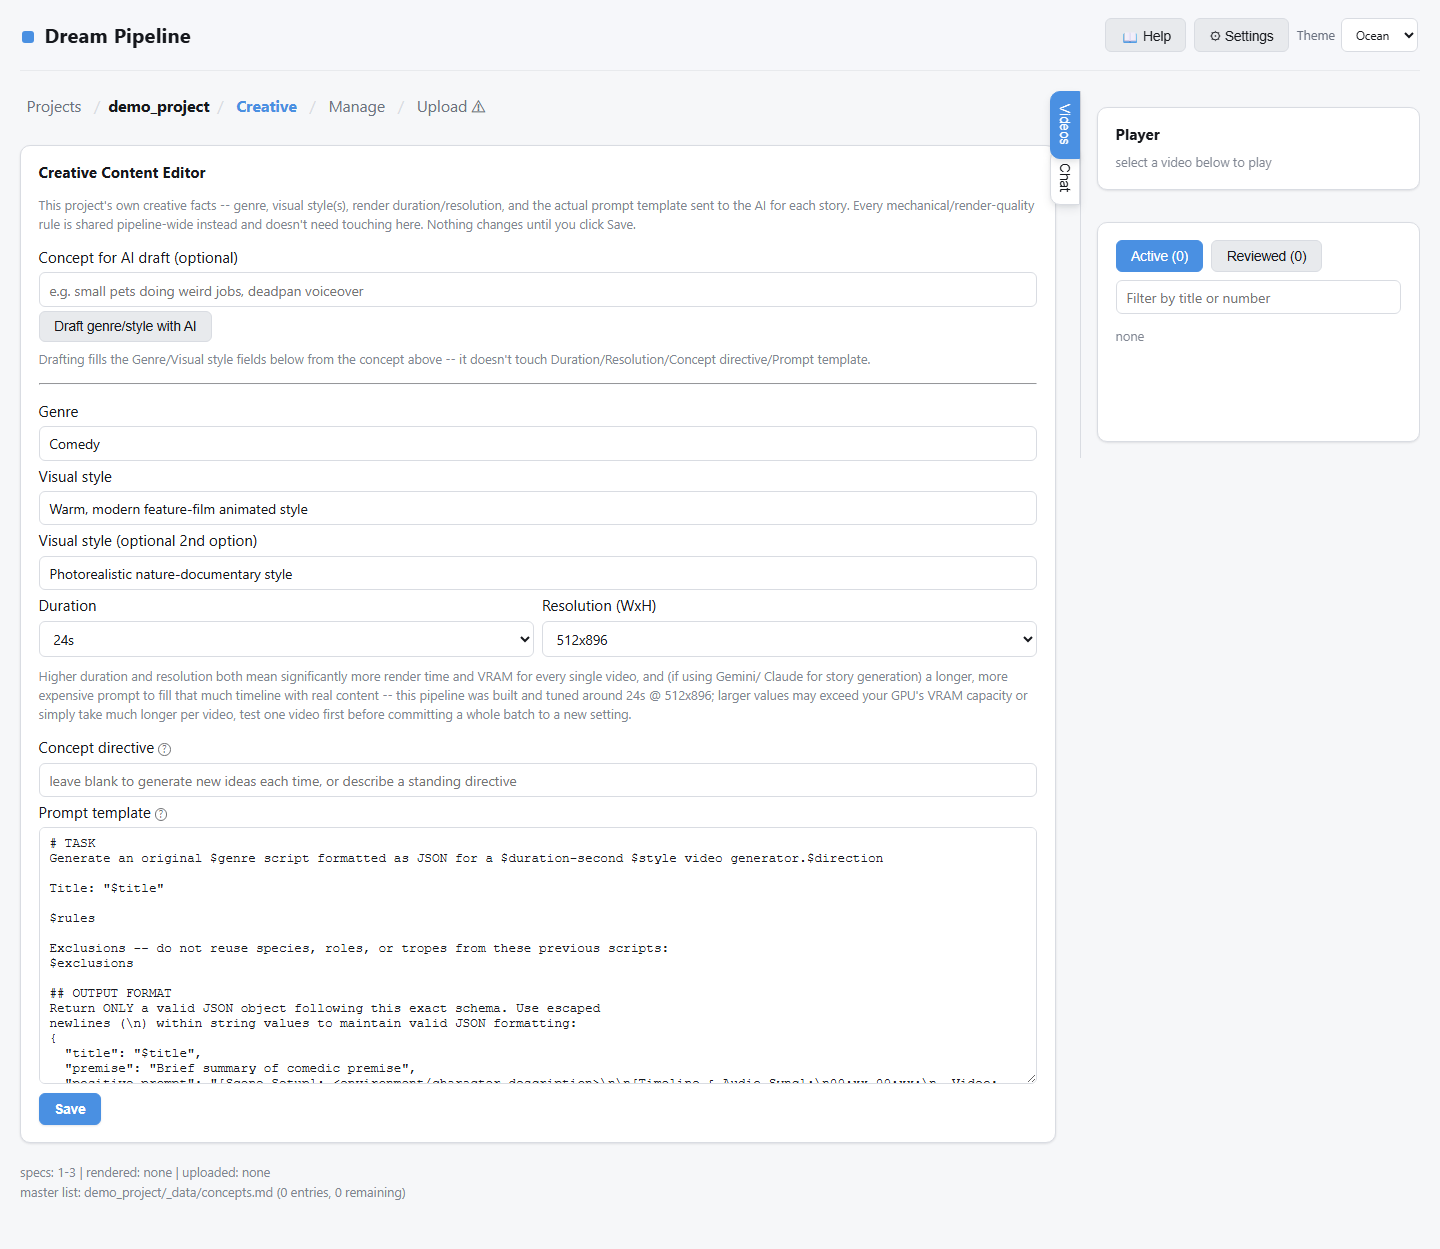
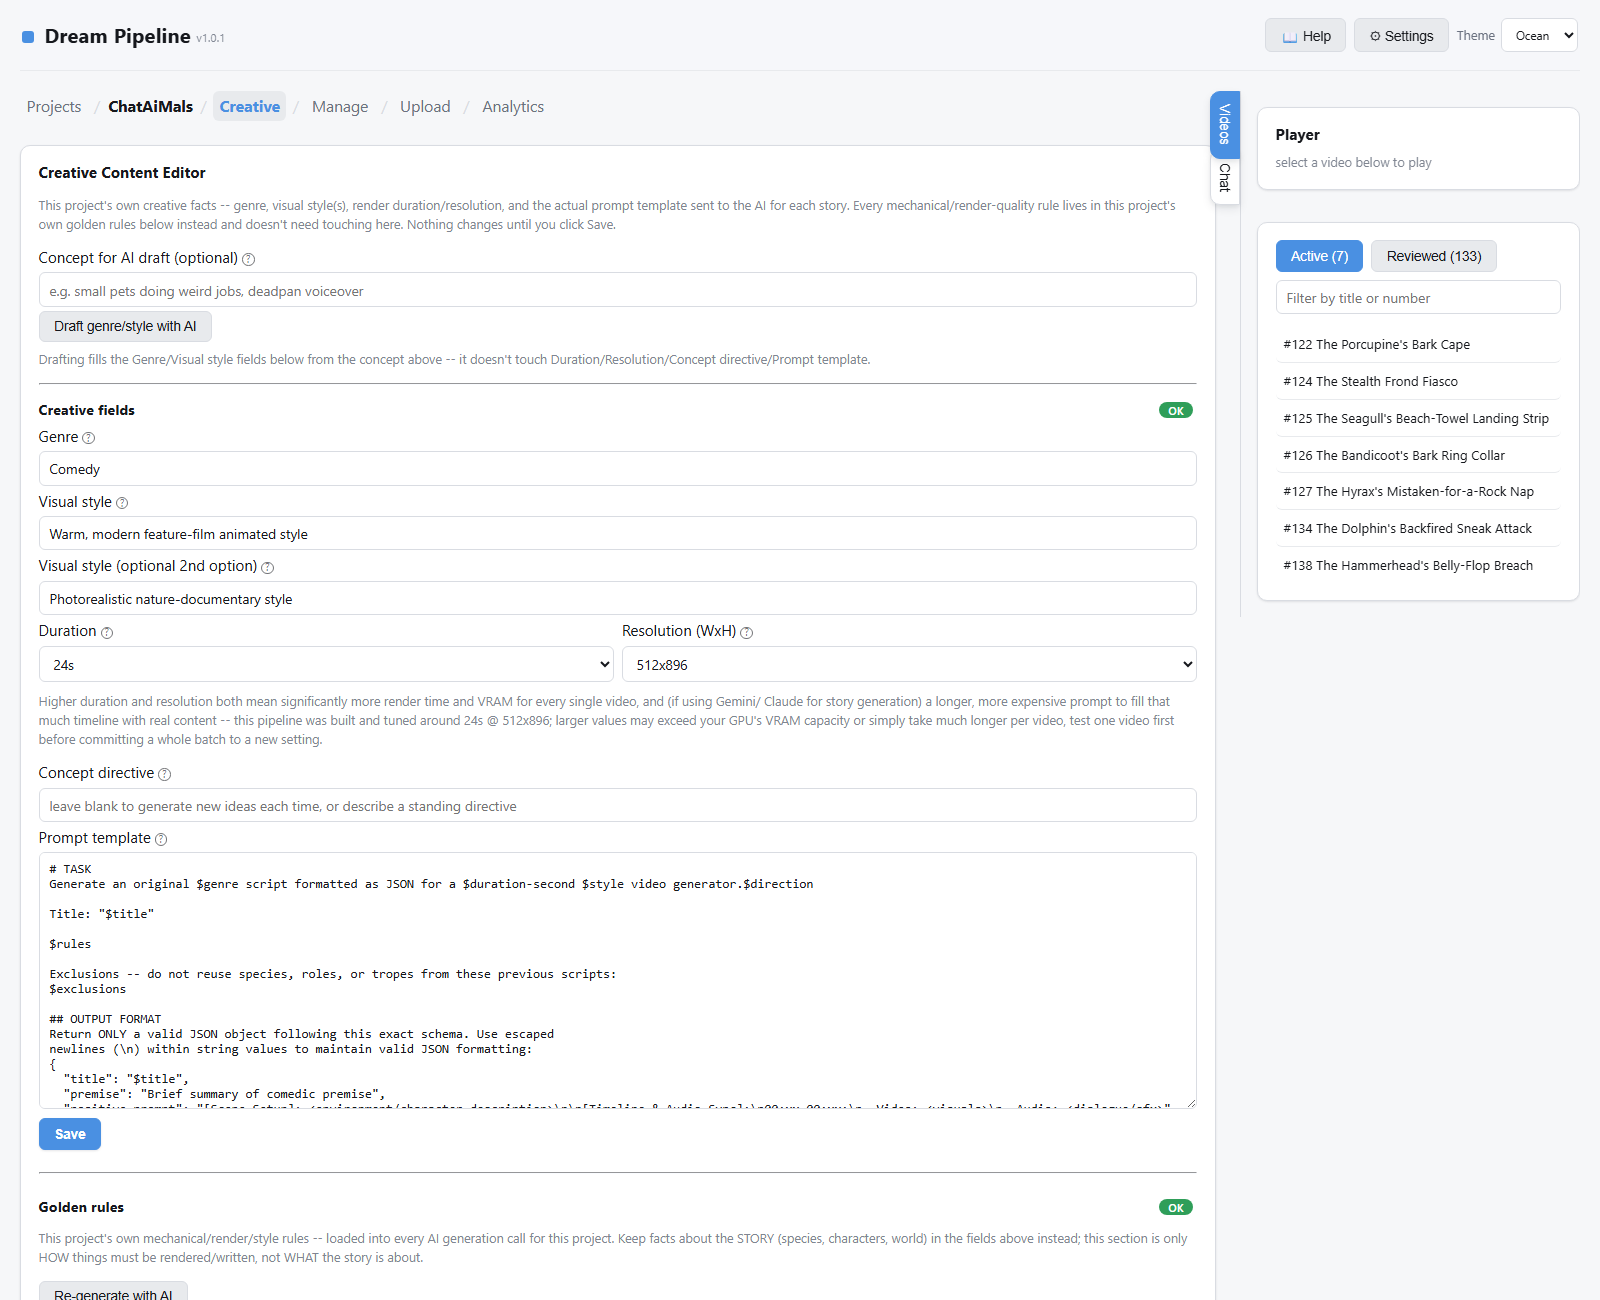
Fix remaining stale pipeline-wide golden_rules.md references, refresh screenshots
Three more leftover mentions of the old shared/pipeline-wide golden
rules concept (golden rules moved to per-project files earlier this
session): the Creative tab's own onboarding/editor copy in web_ui.py,
and two comments/prompt text in dream_step.py (draft_genre_style's
AI instructions, and a stale comment on the CREATIVE.md content-move
rationale). Also refreshes docs/screenshots/manage-table.png and
creative-editor.png against the live UI -- both predated this
session's Manage-table consolidation (single primary button + Clear
content + per-row Revert) and the Creative tab text fix above.

diff --git a/_pipeline/dream_step.py b/_pipeline/dream_step.py
@@ -3419,8 +3419,8 @@ def _validate_and_normalize_spec(number, spec, allow_custom_beats=False, positiv
         #
         # Gated on the rule actually being PRESENT in this project's own
         # active rules, not hardcoded as a universal requirement --
-        # checks golden_rules.md (where this rule happens to live today,
-        # shared pipeline-wide) AND this project's own CREATIVE.md (in
+        # checks this project's own golden_rules.md (where this rule
+        # happens to live today) AND its own CREATIVE.md (in
         # case a project's own style notes state it, or a future project
         # explicitly opts out by not mentioning it), so a project that
         # genuinely doesn't use this convention isn't force-validated
@@ -5295,10 +5295,11 @@ REQUIRED_NEW_PROJECT_FIELDS = [
 # 2026-08-12: CREATIVE.md was cut down to project-FACTS only (genre,
 # visual style) -- every rule/process/worked-example section that used to
 # live here (content modes, complexity budget, voice/role pool, dedup
-# approach, worked examples, etc.) moved to the shared, pipeline-wide
-# golden_rules.md instead (see that file's own header for why: several of
-# those "channel-specific" rules turned out to be general render-quality
-# fixes, not actually per-project). A fresh project's CREATIVE.md now only
+# approach, worked examples, etc.) moved to golden_rules.md instead
+# (see that file's own header for why: several of those "channel-specific"
+# rules turned out to be general render-quality fixes, not actually
+# per-project -- golden_rules.md itself later became per-project too, see
+# _project_golden_rules_path()). A fresh project's CREATIVE.md now only
 # needs these two facts -- project_genre_and_styles() parses them back out
 # by the exact marker lines shown here.
 def read_creative_md():
@@ -5355,8 +5356,8 @@ def build_creative_draft_payload(project_name, concept):
             f"channel with {concept_clause}. This is a FIRST DRAFT a human will review "
             f"before it governs anything -- keep every field short and concrete, "
             f"{tailored_clause}. Do NOT write rules, process, worked examples, or a "
-            f"voice pool -- every mechanical/render-quality rule already applies "
-            f"pipeline-wide via a shared golden_rules.md, not something this draft "
+            f"voice pool -- every mechanical/render-quality rule belongs in this "
+            f"project's own golden_rules.md instead, not something this draft "
             f"needs to state or reinvent."
         ),
     }

diff --git a/_pipeline/web_ui.py b/_pipeline/web_ui.py
@@ -8390,12 +8390,13 @@ function creativeFieldsBody(f, isOnboarding) {
   const intro = isOnboarding
     ? `<p class="muted">Optional: describe the channel's concept and let AI draft a first-pass
         genre/style, or just fill in the fields yourself below. Every mechanical/render-quality
-        rule is shared pipeline-wide already and applies automatically -- nothing to set here for
-        that. Skip for now if you'd rather come back to this later from the Creative tab.</p>`
+        rule lives in this project's own golden rules (see the Creative tab after setup) --
+        nothing to set here for that. Skip for now if you'd rather come back to this later from
+        the Creative tab.</p>`
     : `<p class="muted">This project's own creative facts -- genre, visual style(s), render
         duration/resolution, and the actual prompt template sent to the AI for each story. Every
-        mechanical/render-quality rule is shared pipeline-wide instead and doesn't need touching
-        here. Nothing changes until you click Save.</p>`;
+        mechanical/render-quality rule lives in this project's own golden rules below instead and
+        doesn't need touching here. Nothing changes until you click Save.</p>`;
   const styleDatalist = `<datalist id="cf-style-options">${(f.style_options || []).map(s => `<option value="${esc(s)}">`).join('')}</datalist>`;
   // Real <select> + explicit "Custom..." option instead of an <input
   // list=...> datalist -- a plain input's datalist suggestions have no
